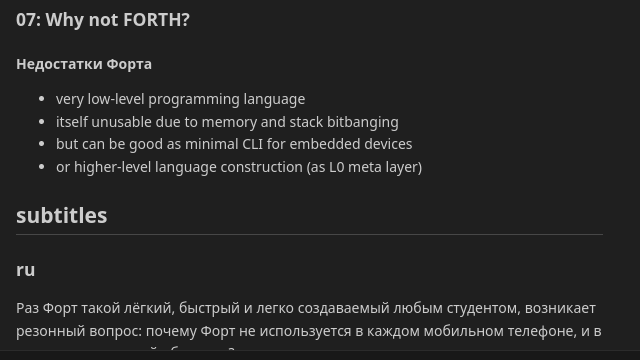
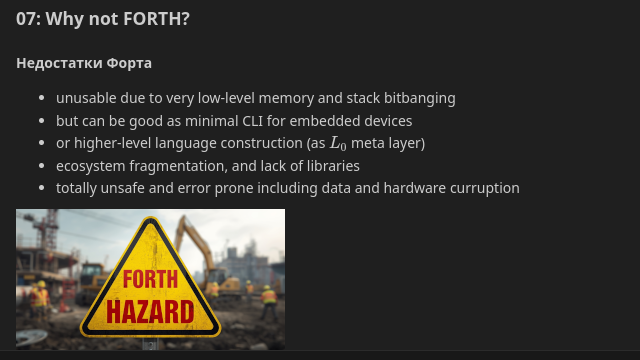
.

diff --git a/doc/slide/07.md b/doc/slide/07.md
@@ -1,11 +1,13 @@
 ### 07: Why not FORTH?
 #### Недостатки Форта
 
-- very low-level programming language
-- itself unusable due to memory and stack bitbanging
+- unusable due to very low-level memory and stack bitbanging
 - but can be good as minimal CLI for embedded devices
-- or higher-level language construction (as L0 meta layer)
+- or higher-level language construction (as $L_0$ meta layer)
 - ecosystem fragmentation, and lack of libraries
+- totally unsafe and error prone including data and hardware curruption
+
+![](hazard.png)
 
 ## subtitles
 ### ru
